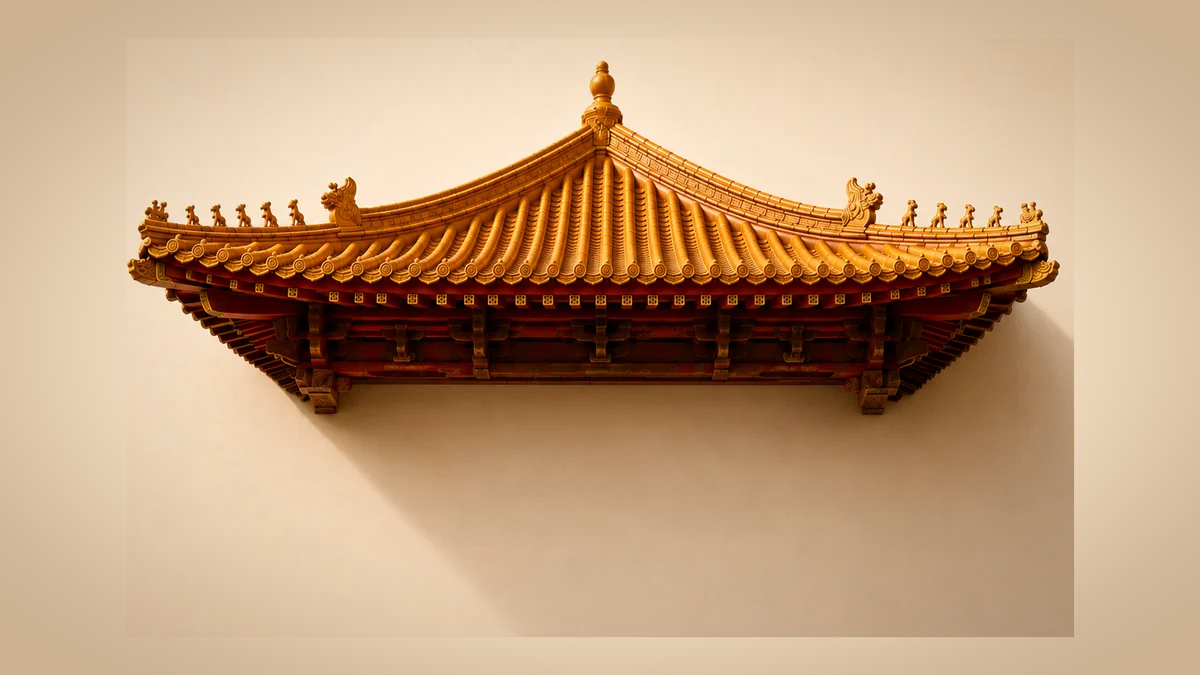
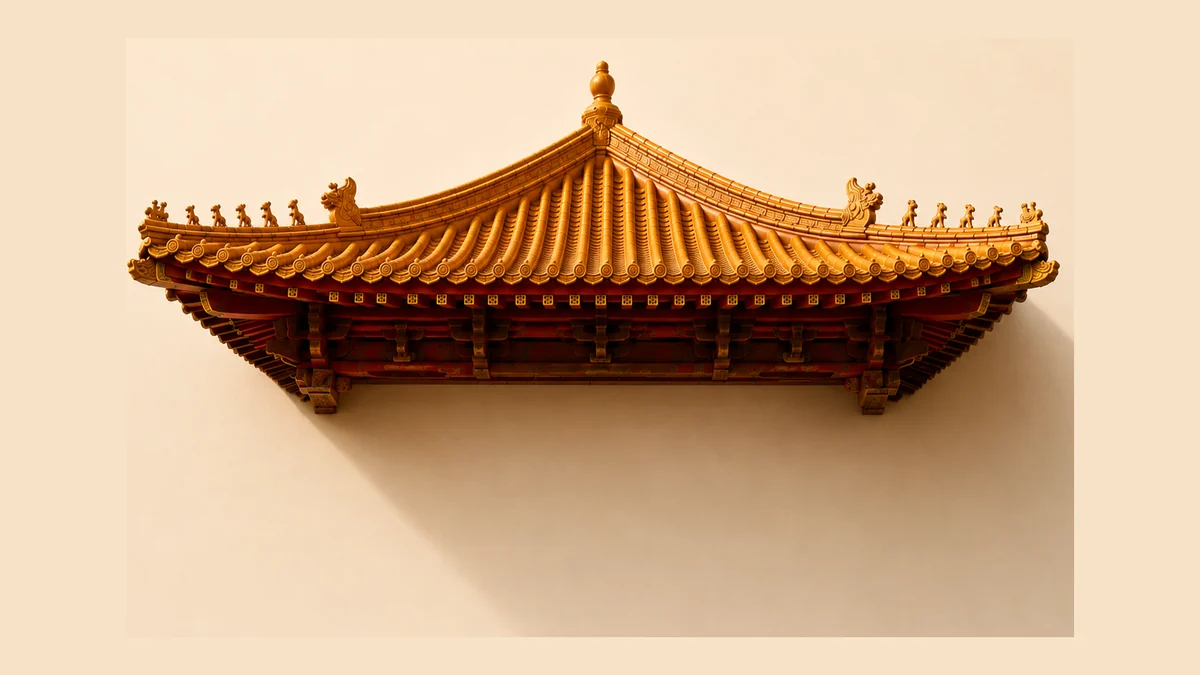
Replace baked-in photo vignette with a CSS inset box-shadow overlay
The per-image raster vignette approach was fragile and needed separate
tuning per photo's own tone. Overlaying an inset box-shadow that reads
the card's actual --bg color blends any image into the frame uniformly,
regardless of the source photo's light or dark tone.

diff --git a/src/components/sections/ProjectCard.tsx b/src/components/sections/ProjectCard.tsx
@@ -61,11 +61,21 @@ export function ProjectCard({ project }: { project: Project }) {
         }}
       >
         {project.previewImage ? (
-          <img
-            src={project.previewImage}
-            alt=""
-            className="h-full w-full object-cover"
-          />
+          <>
+            <img
+              src={project.previewImage}
+              alt=""
+              className="h-full w-full object-cover"
+            />
+            <div
+              aria-hidden
+              className="pointer-events-none absolute inset-0 rounded-xl"
+              style={{
+                boxShadow:
+                  'inset 0 0 0 1px rgba(10,10,13,0.35), inset 0 0 40px 14px var(--bg)',
+              }}
+            />
+          </>
         ) : (
           <span
             className="font-mono tracking-[0.1em]"
